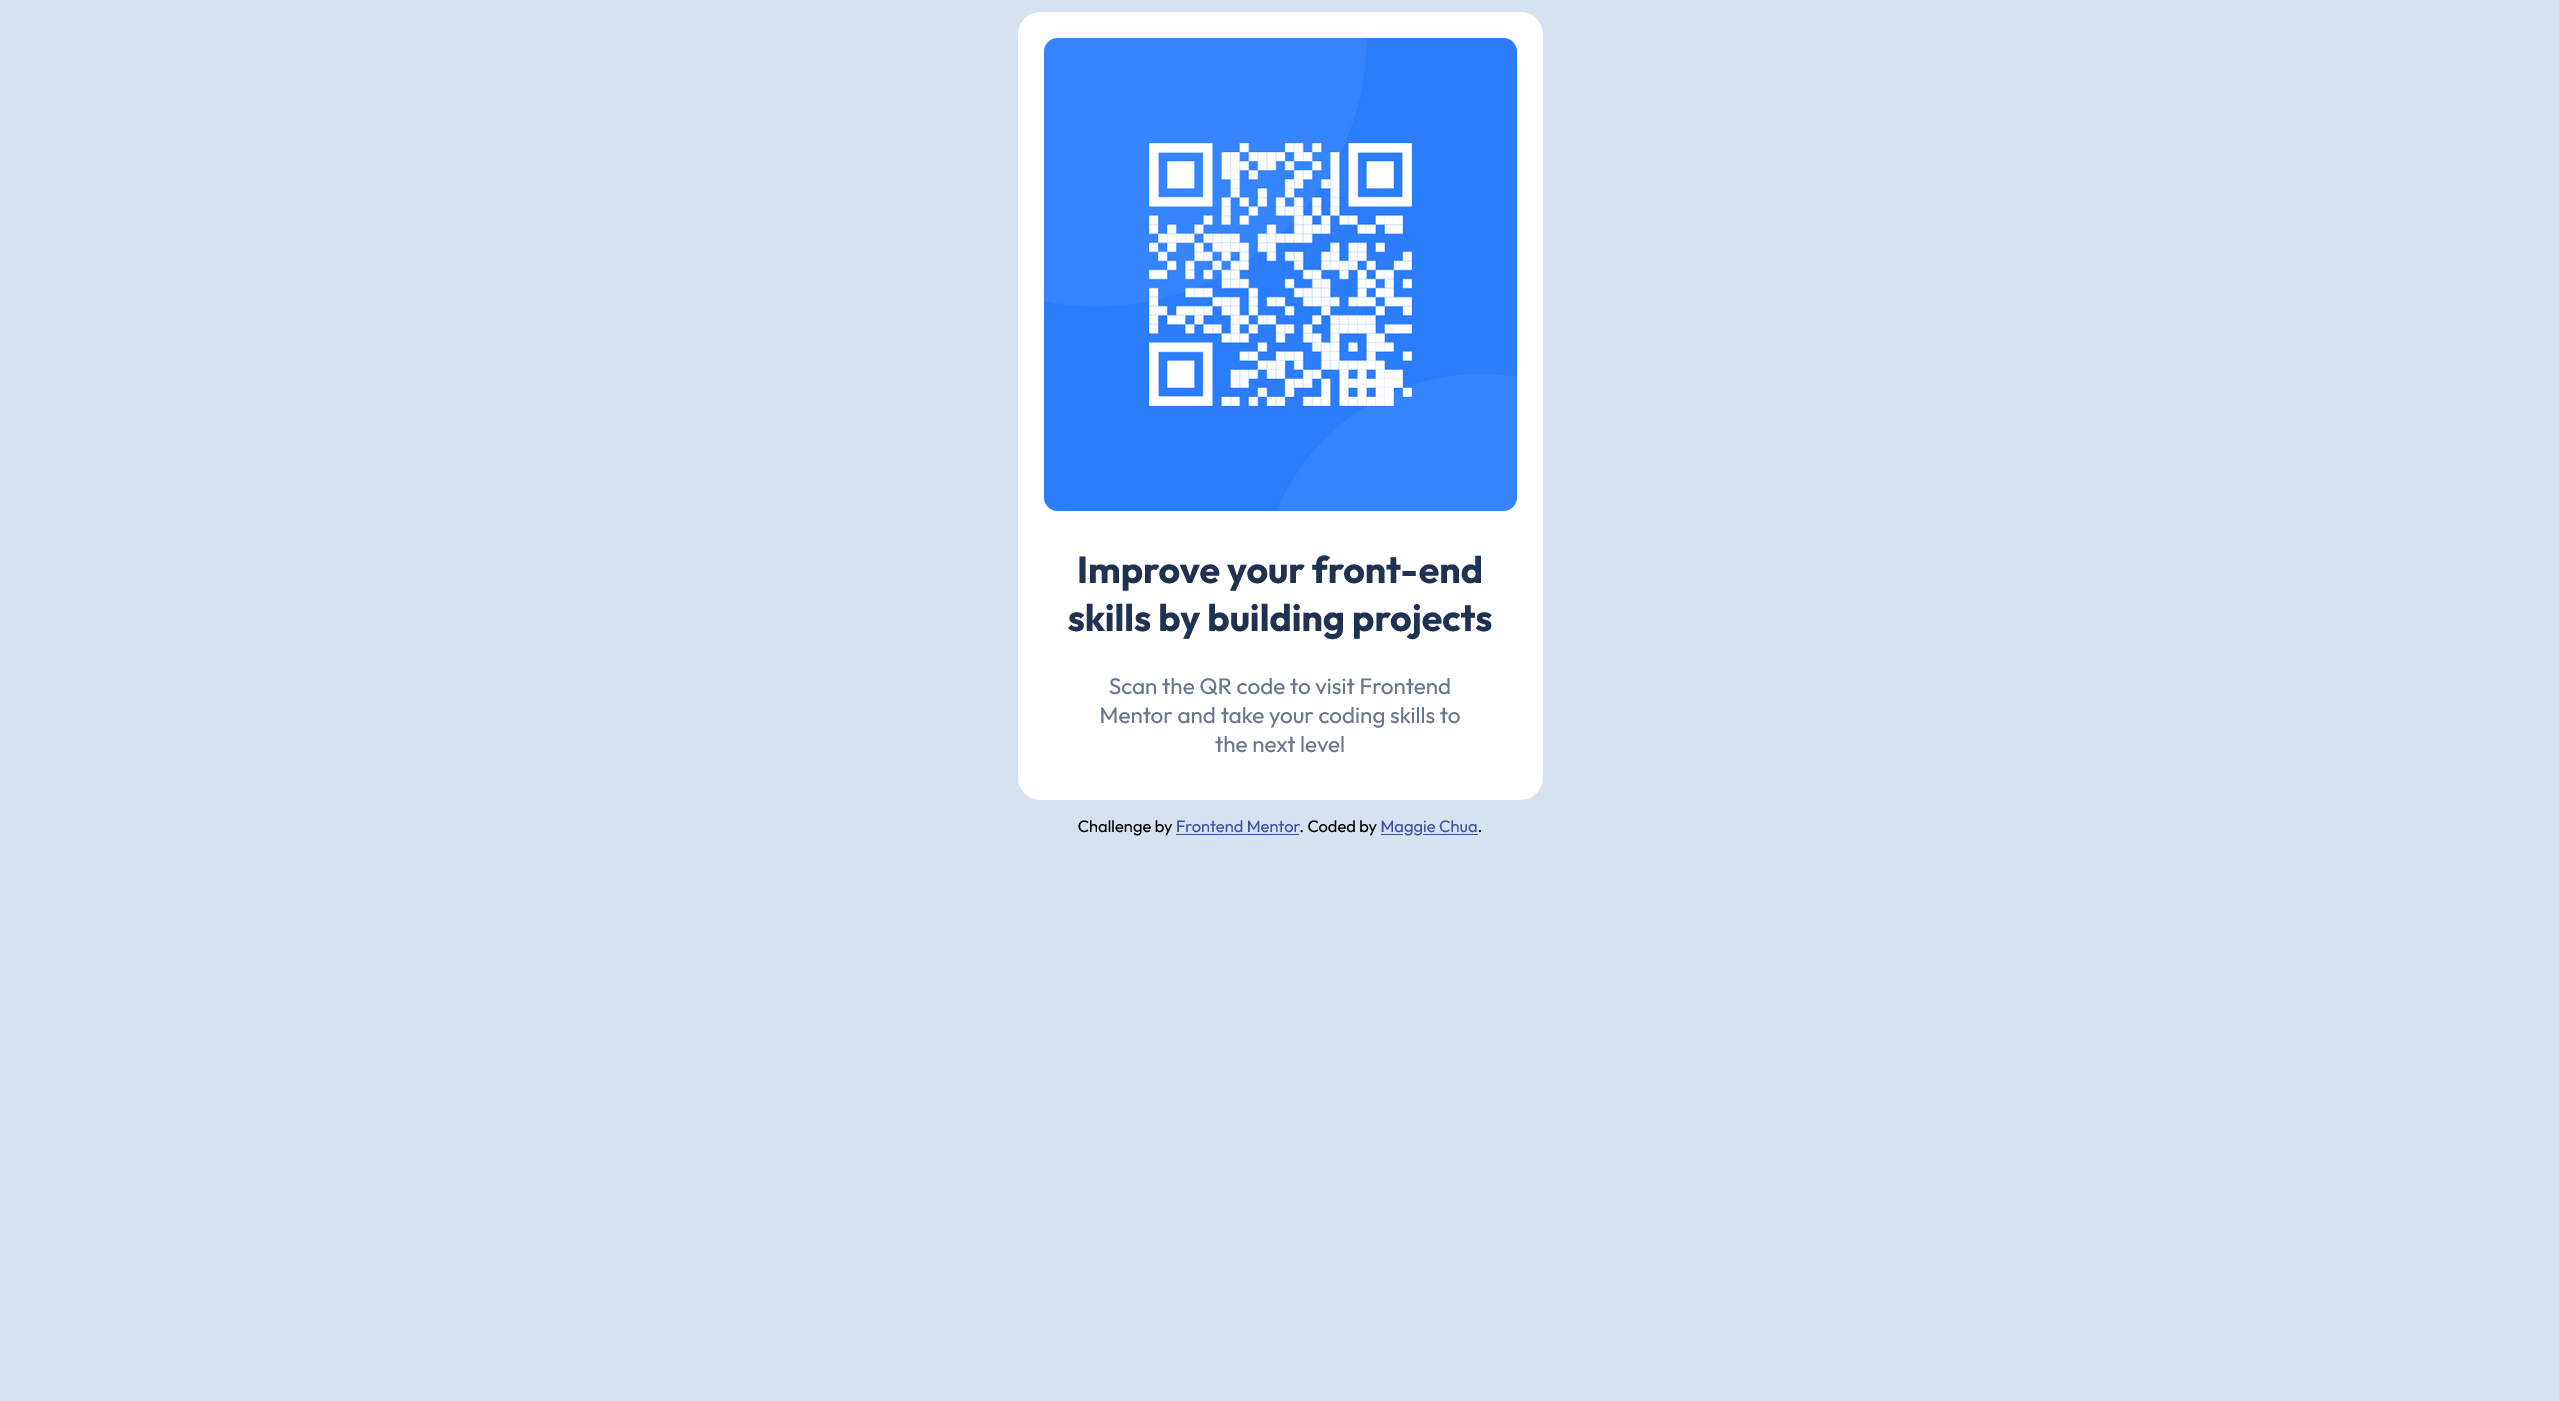
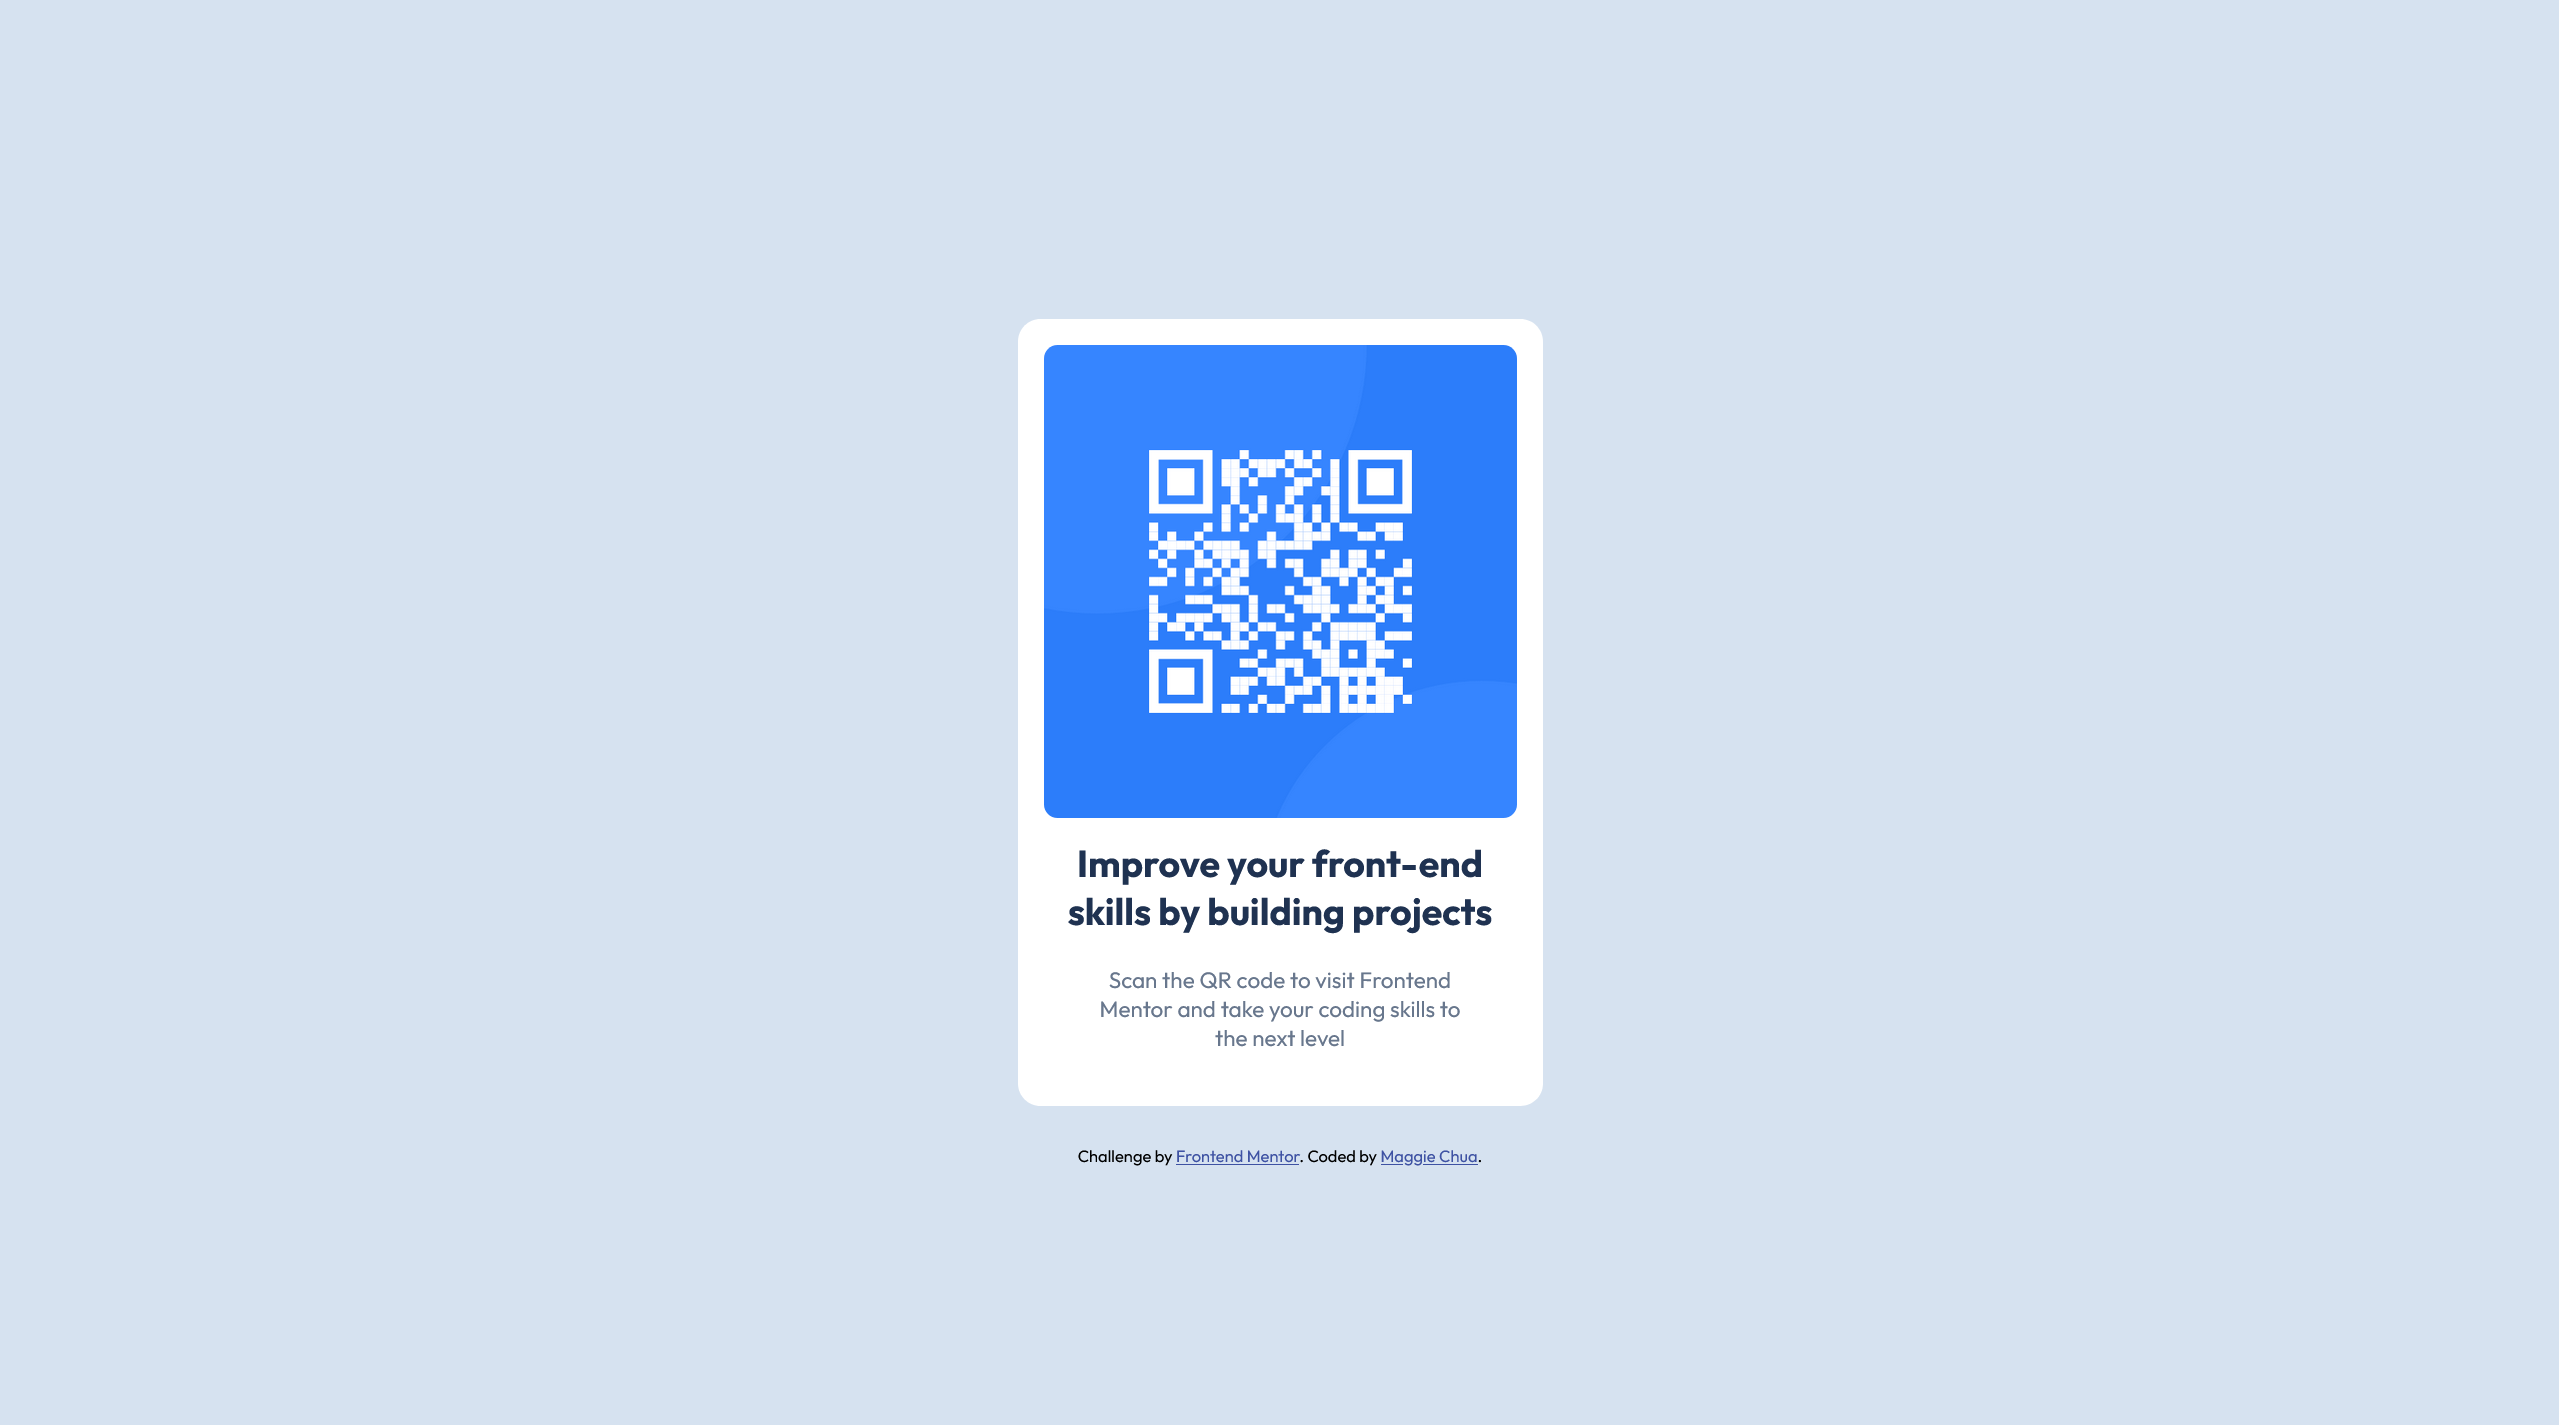
finalizing qrcode project

Changed region(s): [[0.3705, 0.0, 0.6174, 0.8287]]

diff --git a/qrCode/index.html b/qrCode/index.html
@@ -12,9 +12,9 @@
   </style>
 </head>
 <body>
-  <div class="container">
+  <div class="container" role="main">
     <img src="/qrCode/images/image-qr-code.png" alt="a QR code pattern to visit the Frontend Mentor site">
-    <h3 class="text">Improve your front-end skills by building projects</h3>
+    <h1 class="text">Improve your front-end skills by building projects</h1>
     <p class="text">Scan the QR code to visit Frontend Mentor and take your coding skills to the next level</p>
   </div>
   <div class="attribution">

diff --git a/qrCode/qr-code-styles.css b/qrCode/qr-code-styles.css
@@ -1,3 +1,5 @@
+/*modified according to feedback given by reviewer, where we can
+use grid to center the content*/
 body {
     background-color: hsl(212, 45%, 89%);
     display: grid;
@@ -36,7 +38,7 @@ body {
     margin-bottom: -20px;
 }
 
-.container h3, p {
+.container h1, p {
     text-align: center;
     margin-bottom: 5px;
 }
@@ -49,7 +51,7 @@ body {
     max-width: 70%;
 }
 
-.container h3 {
+.container h1 {
     color: hsl(218, 44%, 22%);
     font-size: 25px;
     font-weight: 700;
